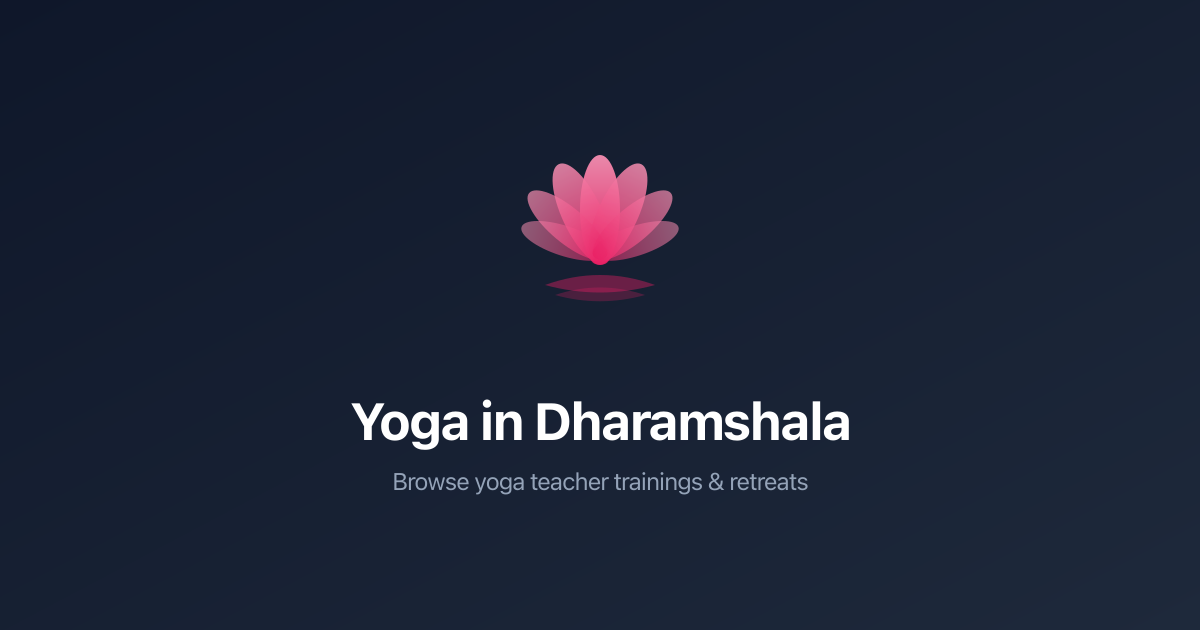
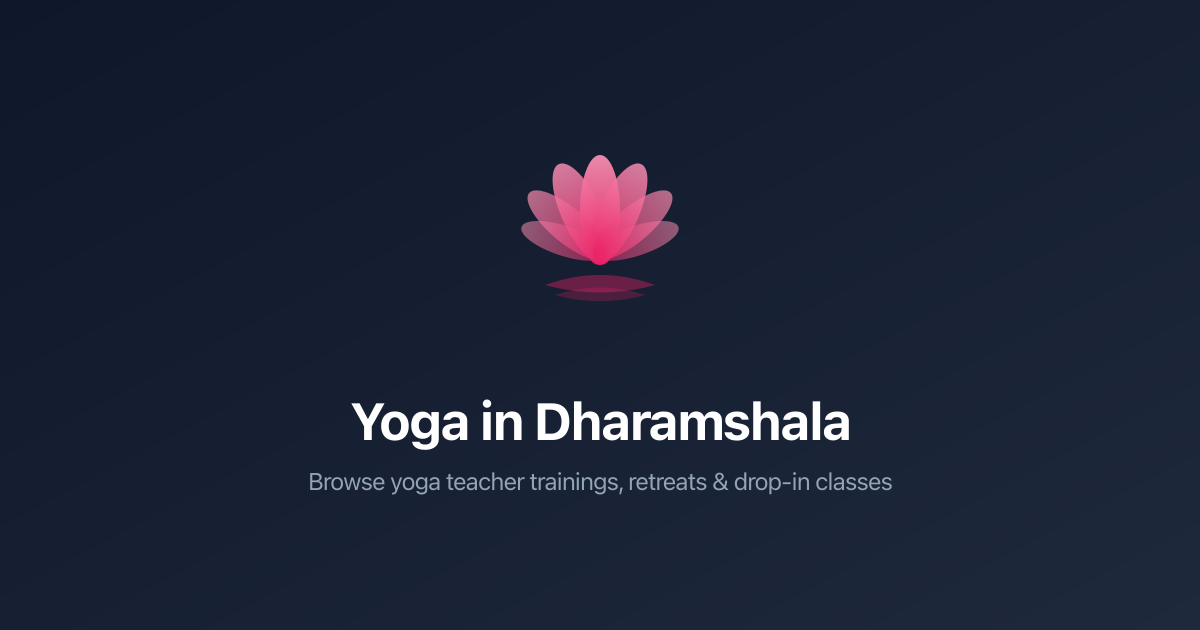
fix: include drop-in classes in social preview descriptions

Changed region(s): [[0.2467, 0.754, 0.74, 0.7841]]

diff --git a/src/app/[location]/layout.tsx b/src/app/[location]/layout.tsx
@@ -25,10 +25,10 @@ export async function generateMetadata({
 
   return {
     title: `Yoga in ${locationName}`,
-    description: `Browse yoga teacher trainings and retreats in ${locationName}, India`,
+    description: `Browse yoga teacher trainings, retreats and drop-in classes in ${locationName}, India`,
     openGraph: {
       title: `Yoga in ${locationName}`,
-      description: `Browse yoga teacher trainings and retreats in ${locationName}, India`,
+      description: `Browse yoga teacher trainings, retreats and drop-in classes in ${locationName}, India`,
       images: [{ url: `/og-${location}.png`, width: 1200, height: 630 }],
     },
   }

diff --git a/scripts/generate-assets.ts b/scripts/generate-assets.ts
@@ -64,7 +64,7 @@ function ogImageSvg(location: string): string {
   <!-- Title text -->
   <text x="600" y="440" text-anchor="middle" font-family="system-ui, sans-serif" font-size="52" font-weight="700" fill="white">Yoga in ${location}</text>
   <!-- Subtitle -->
-  <text x="600" y="490" text-anchor="middle" font-family="system-ui, sans-serif" font-size="24" fill="#94a3b8">Browse yoga teacher trainings &amp; retreats</text>
+  <text x="600" y="490" text-anchor="middle" font-family="system-ui, sans-serif" font-size="24" fill="#94a3b8">Browse yoga teacher trainings, retreats &amp; drop-in classes</text>
 </svg>`
 }
 

diff --git a/src/app/layout.tsx b/src/app/layout.tsx
@@ -15,7 +15,7 @@ const geistMono = Geist_Mono({
 
 export const metadata: Metadata = {
   title: "Yoga in India",
-  description: "Browse yoga teacher trainings and retreats in India",
+  description: "Browse yoga teacher trainings, retreats and drop-in classes in India",
   icons: {
     icon: [
       { url: "/favicon.svg", type: "image/svg+xml" },
